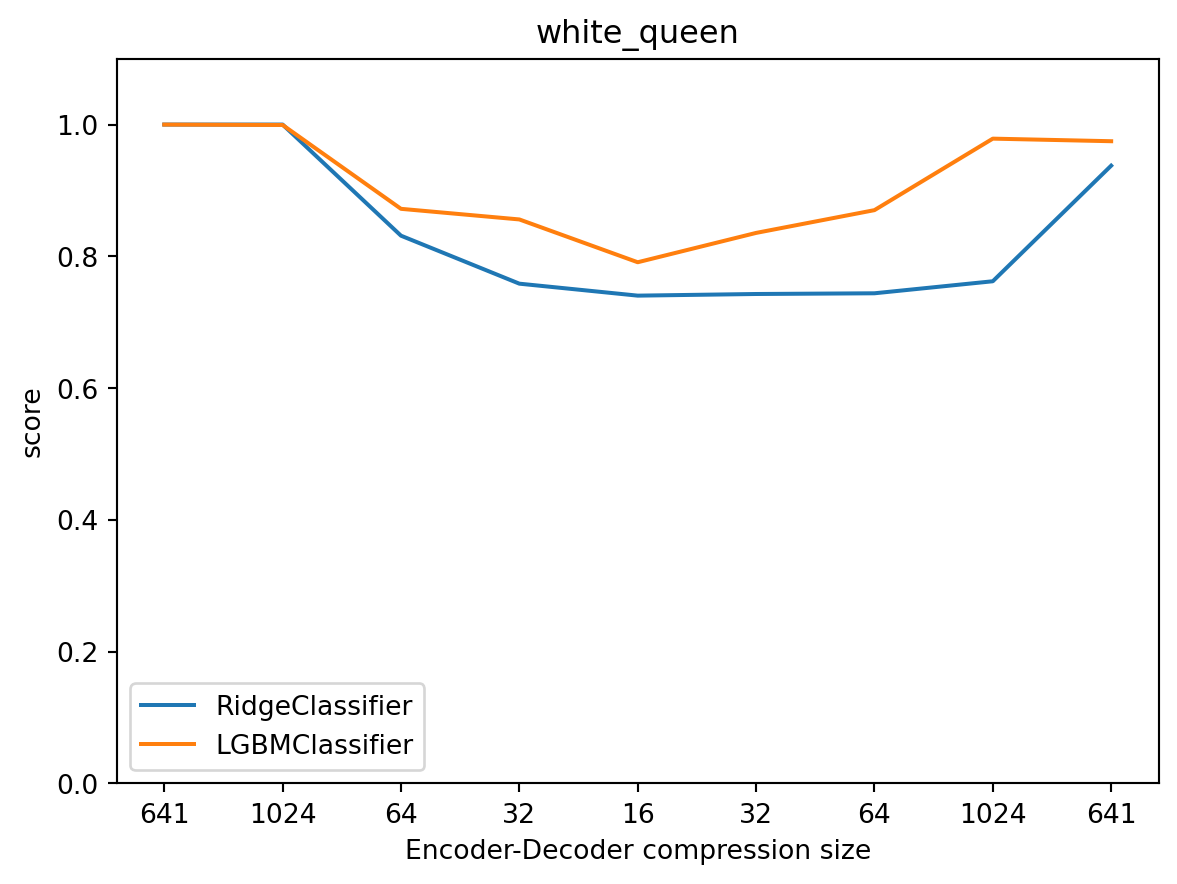
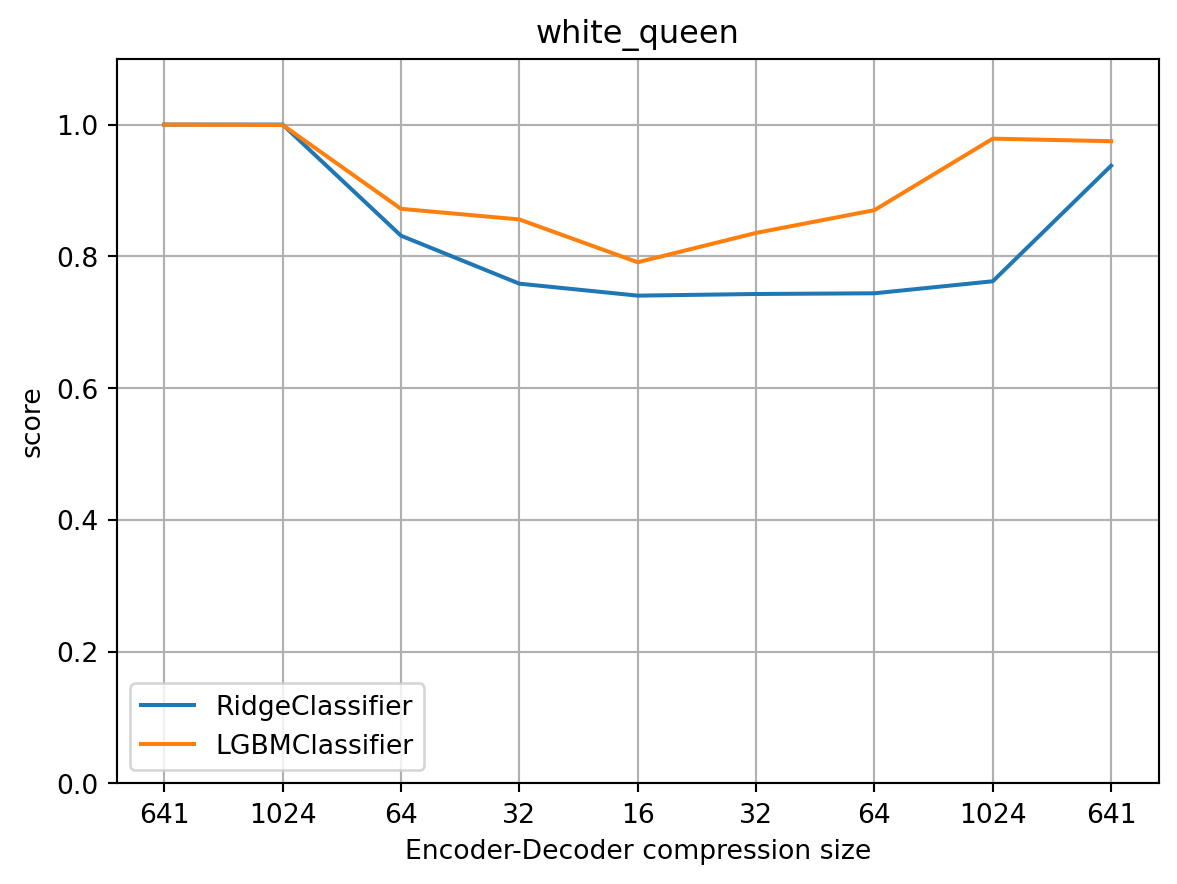
adding captions

diff --git a/docs/report.html b/docs/report.html
@@ -283,7 +283,7 @@ code span.wa { color: #60a0b0; font-weight: bold; font-style: italic; } /* Warni
 <div id="fig-small-autoencoder-1" class="quarto-figure quarto-figure-center anchored">
 <figure class="figure">
 <p><img src="report_files/figure-html/fig-small-autoencoder-output-1.png" data-ref-parent="fig-small-autoencoder" width="589" height="442" class="figure-img"></p>
-<p></p><figcaption class="figure-caption">(a)</figcaption><p></p>
+<p></p><figcaption class="figure-caption">(a) Visualizing the results of probing a medium autoencoder.</figcaption><p></p>
 </figure>
 </div>
 </div>
@@ -323,7 +323,7 @@ code span.wa { color: #60a0b0; font-weight: bold; font-style: italic; } /* Warni
 <div id="fig-medium-autoencoder-1" class="quarto-figure quarto-figure-center anchored">
 <figure class="figure">
 <p><img src="report_files/figure-html/fig-medium-autoencoder-output-1.png" data-ref-parent="fig-medium-autoencoder" width="589" height="442" class="figure-img"></p>
-<p></p><figcaption class="figure-caption">(a)</figcaption><p></p>
+<p></p><figcaption class="figure-caption">(a) Visualizing the results of probing a medium autoencoder.</figcaption><p></p>
 </figure>
 </div>
 </div>
@@ -363,7 +363,7 @@ code span.wa { color: #60a0b0; font-weight: bold; font-style: italic; } /* Warni
 <div id="fig-large-autoencoder-1" class="quarto-figure quarto-figure-center anchored">
 <figure class="figure">
 <p><img src="report_files/figure-html/fig-large-autoencoder-output-1.png" data-ref-parent="fig-large-autoencoder" width="589" height="442" class="figure-img"></p>
-<p></p><figcaption class="figure-caption">(a)</figcaption><p></p>
+<p></p><figcaption class="figure-caption">(a) Visualizing the results of probing a large autoencoder.</figcaption><p></p>
 </figure>
 </div>
 </div>

diff --git a/stockfish_explain/experiments/chess_auto_encoder/utils.py b/stockfish_explain/experiments/chess_auto_encoder/utils.py
@@ -32,6 +32,7 @@ def plot_results(df_results):
         # set x ticks as size   
         plt.xticks(range(len(df_results_[df_results_.model_name == model_name])), df_results_[df_results_.model_name == model_name]['size'].astype(str))
         plt.title(target_name)
+        plt.grid()
         plt.ylabel('score')
         plt.xlabel('Encoder-Decoder compression size')
         plt.ylim(0,1.1)
